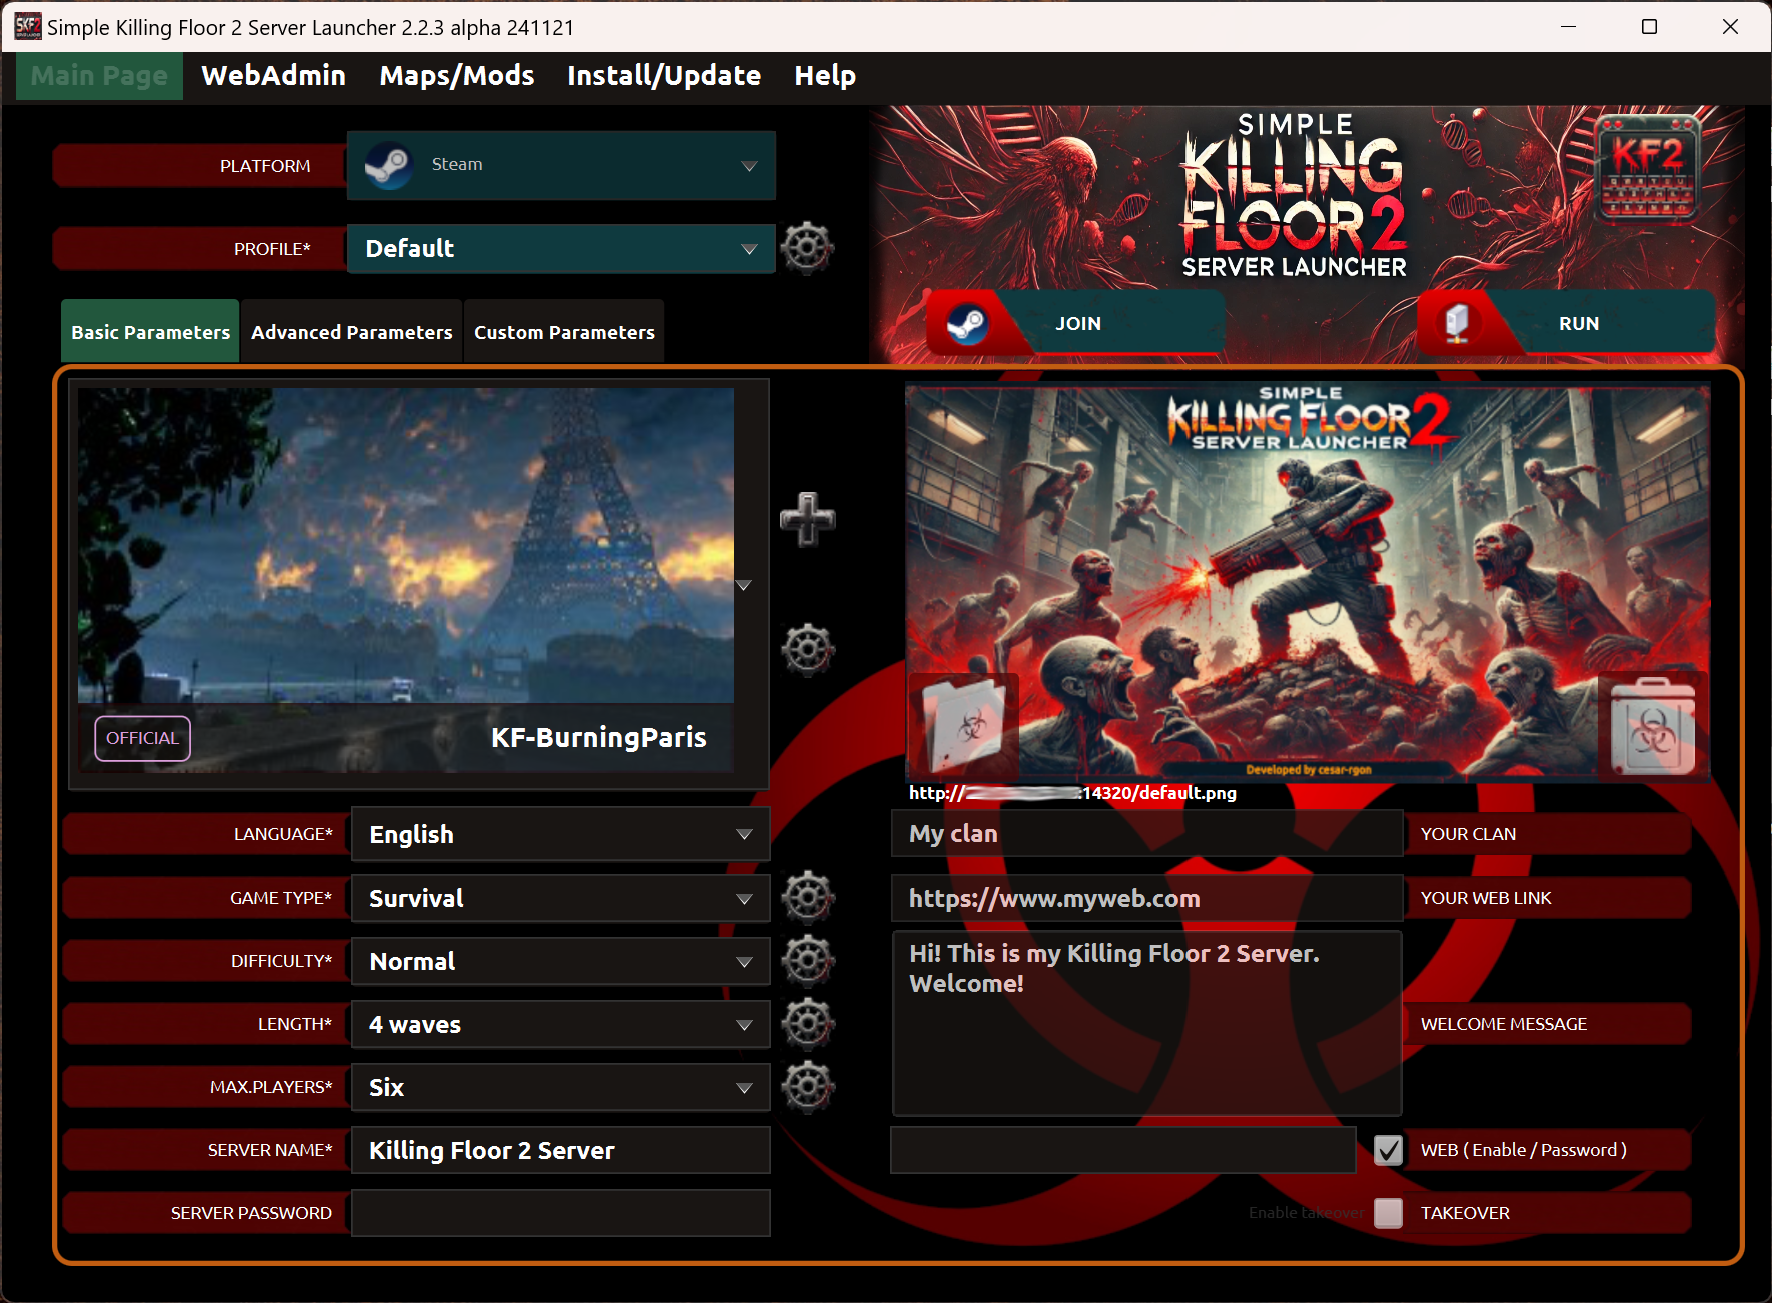
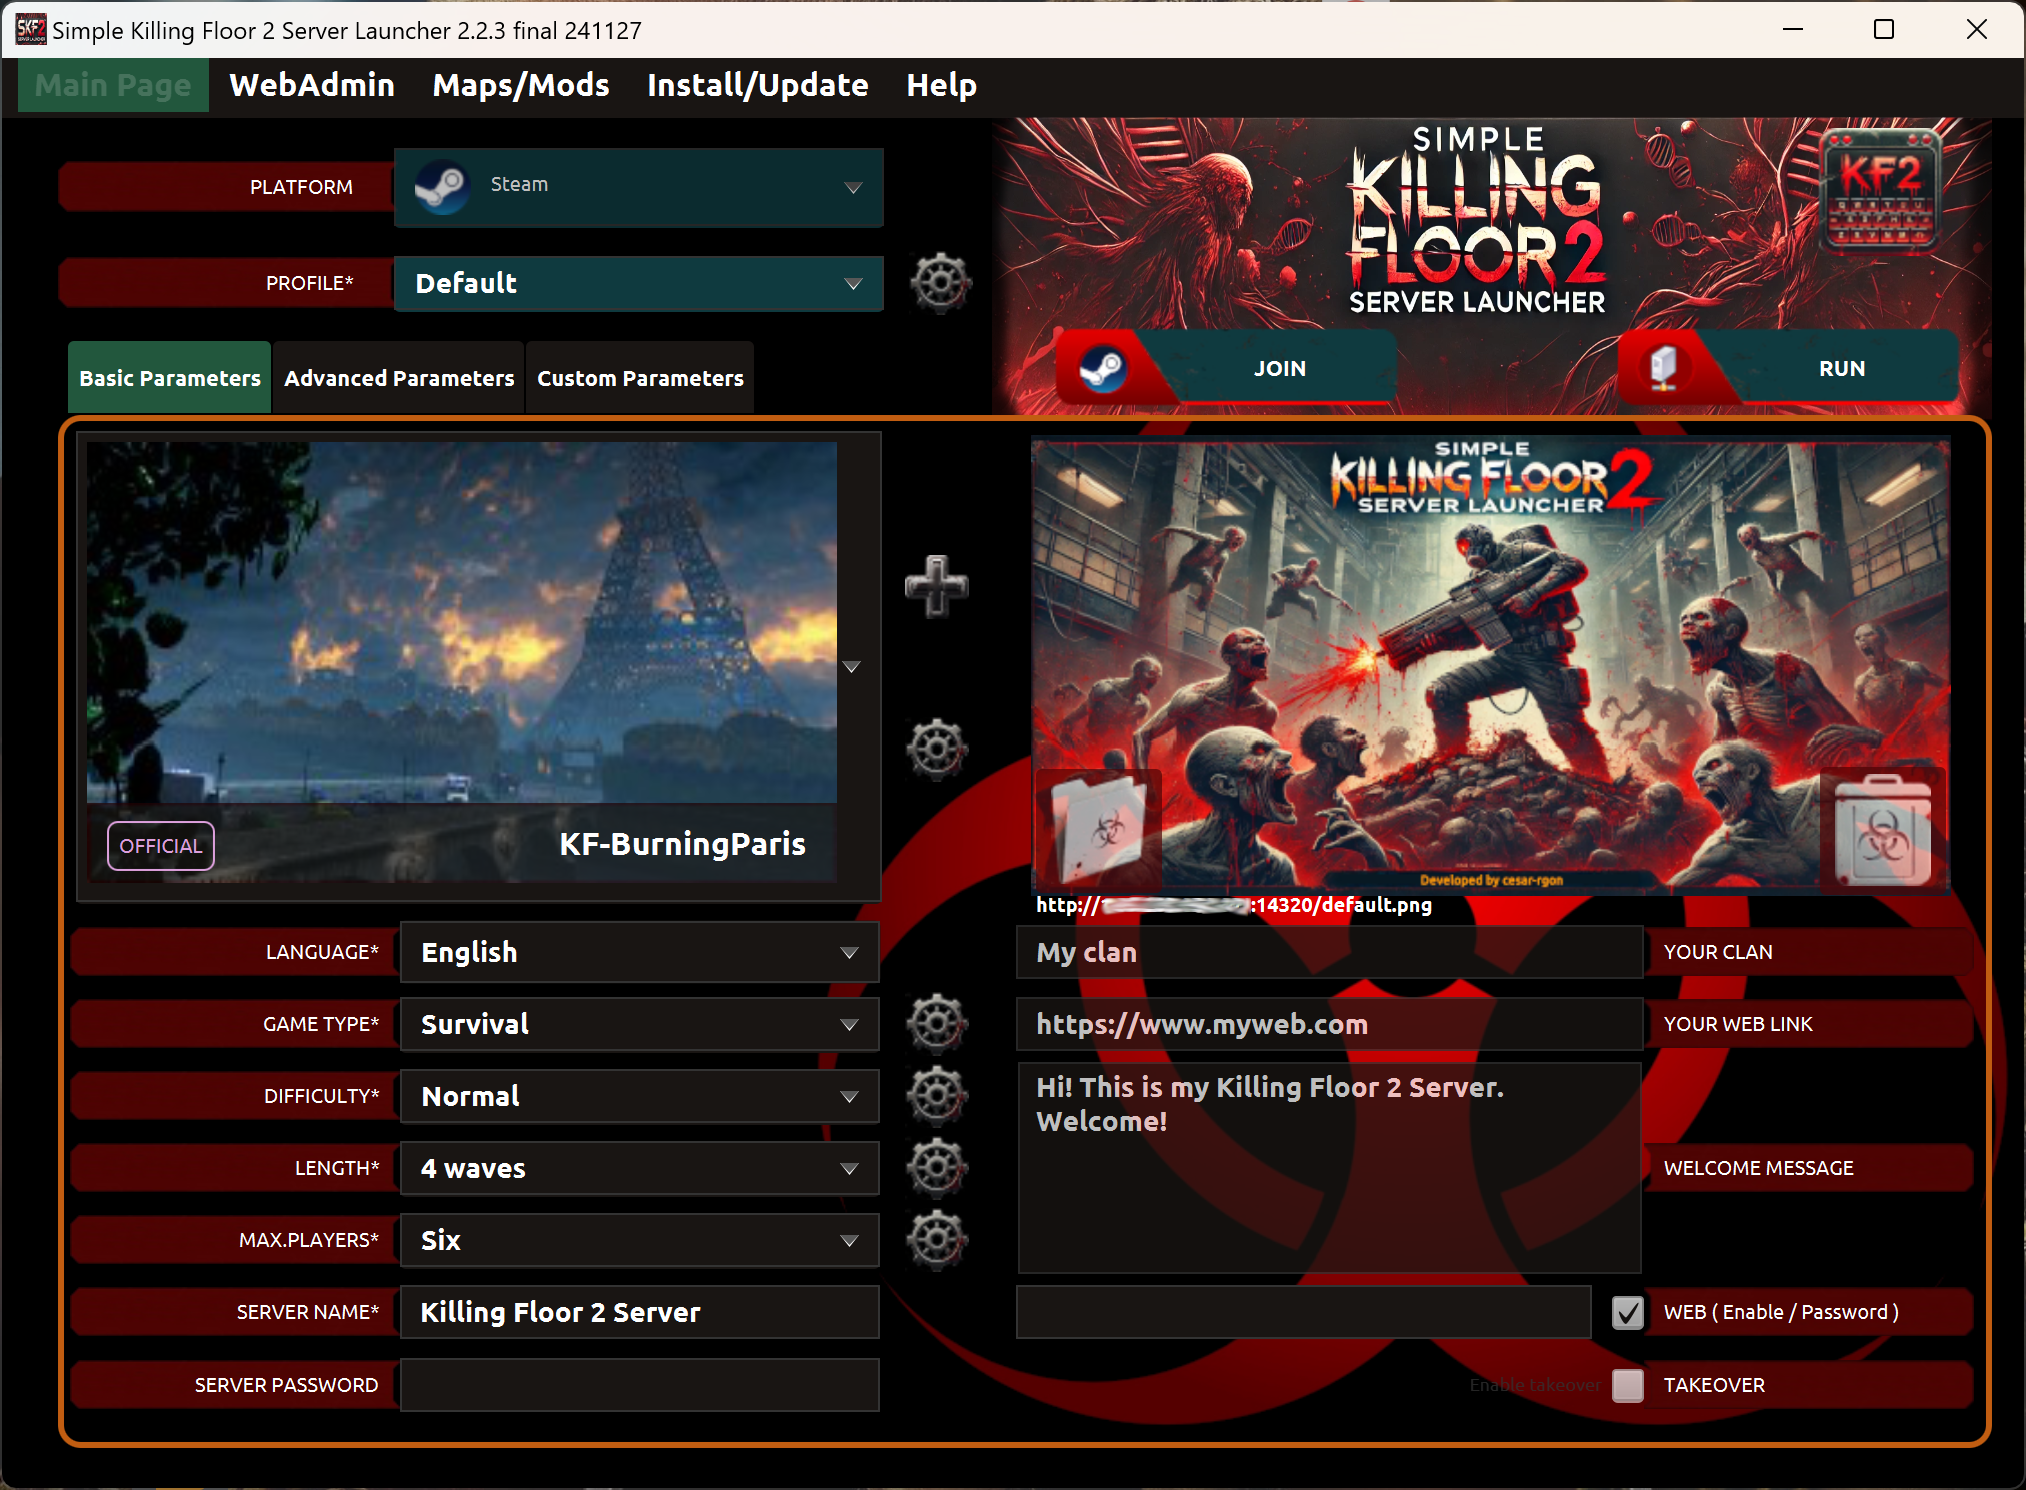
Updates in documentation

diff --git a/LEEME.md b/LEEME.md
@@ -6,7 +6,7 @@ _[Click here to open documentation in english | Pulse aquí para abrir documenta
 Aplicación para personalizar y lanzar fácilmente un servidor de Killing Floor 2 a través de una interfaz visual en lugar de editar ficheros batch o de configuración del servidor. Ha sido desarrollado en Java y la interfaz es compatible con los S.O. Windows y Linux.
 
 ```
-Versión: 2.2.3 alpha
+Versión: 2.2.3 final
 S.O. soportados: Microsoft Windows y Linux (Ubuntu/Debian)
 Plataformas soportadas: Steam y Epic Games
 Desarrollado por: César Rodríguez González

diff --git a/README.md b/README.md
@@ -6,7 +6,7 @@ _[Click here to open documentation in spanish | Pulse aquí para abrir documenta
 Application to easily customize and launch a Killing Floor 2 server through a visual interface instead of edditing batch files or server's config files. It has been developed with Java, so the interface is compatible on Windows and Linux OS.
 
 ```
-Version: 2.2.3 alpha
+Version: 2.2.3 final
 Supported OS: Microsoft Windows and Linux (Ubuntu/Debian)
 Supported platforms: Steam and Epic Games
 Developed by: César Rodríguez González
